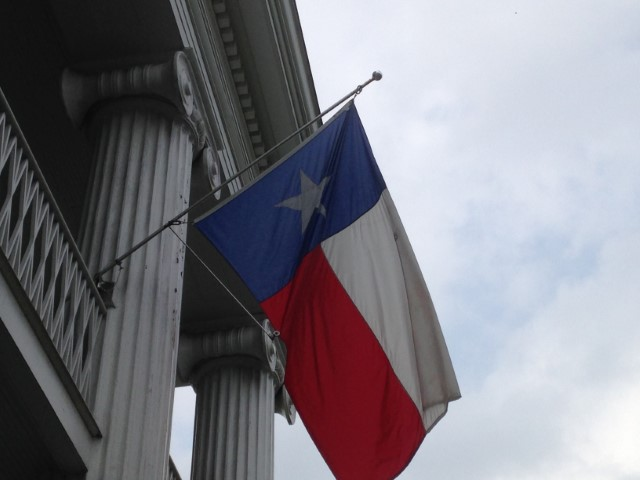
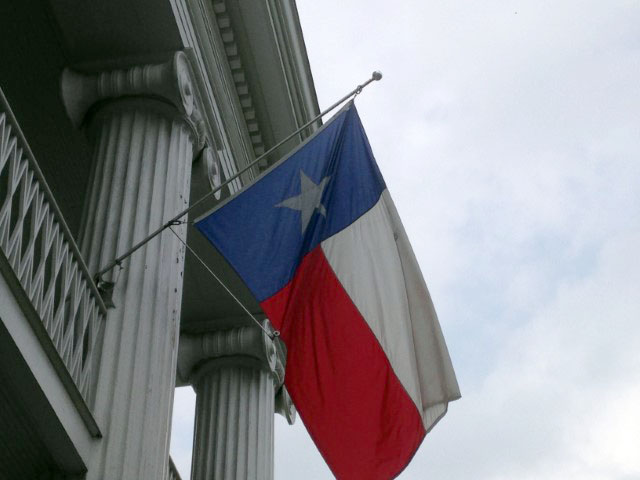
last minute photo changes

diff --git a/assets/styles/style.css b/assets/styles/style.css
@@ -142,7 +142,7 @@ header nav ul li a:hover {
 
 .work_grid>*:nth-child(2) {
     background-image: url("../images/DSCN0766.JPG");
-    background-size: 55%;
+    background-size: 98%;
     background-position: center;
 }
 
